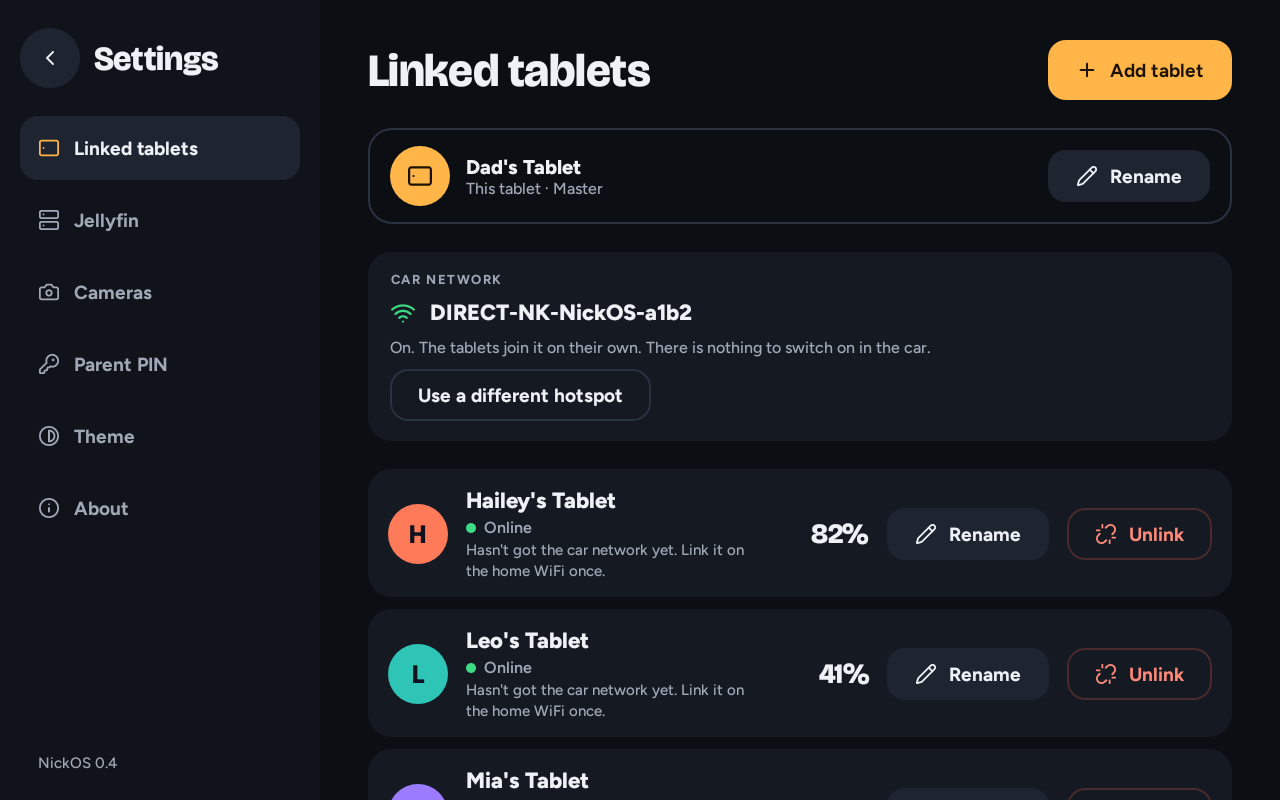
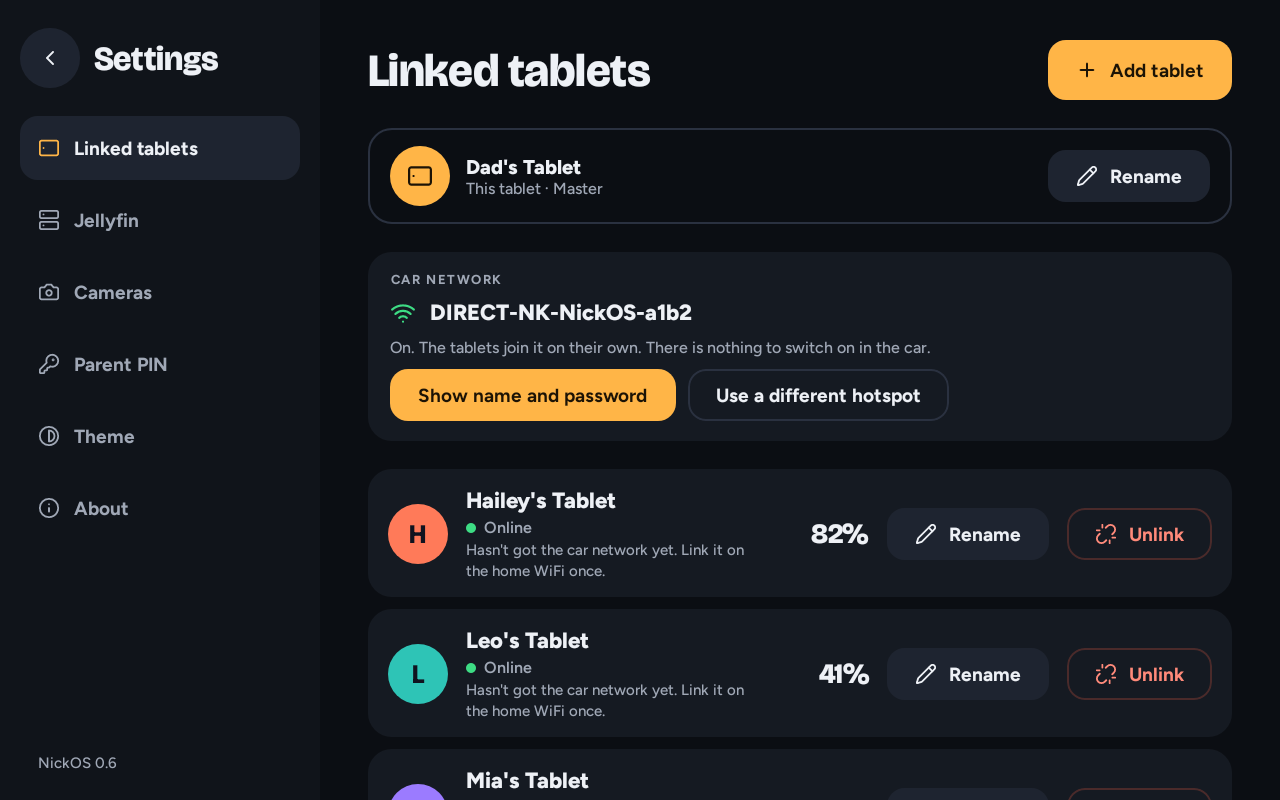
show the car network name, password and QR on the parent tablet

Changed region(s): [[0.2812, 0.4375, 0.5312, 0.5312], [0.5625, 0.4688, 0.7188, 0.5312]]

diff --git a/app/src/main/java/com/nbaltas/nickos/ui/master/Settings.kt b/app/src/main/java/com/nbaltas/nickos/ui/master/Settings.kt
@@ -28,6 +28,10 @@ import androidx.compose.foundation.shape.RoundedCornerShape
 import androidx.compose.foundation.verticalScroll
 import androidx.compose.material3.Icon
 import androidx.compose.material3.Text
+import androidx.compose.foundation.Image
+import androidx.compose.foundation.text.selection.SelectionContainer
+import androidx.compose.ui.graphics.FilterQuality
+import androidx.compose.ui.graphics.asImageBitmap
 import androidx.compose.runtime.Composable
 import androidx.compose.runtime.collectAsState
 import androidx.compose.runtime.getValue
@@ -317,6 +321,8 @@ private fun CarNetCard() {
     val manual = hotspot?.takeIf { !it.direct }
     val copy = carNetCopy(state, manual, Build.VERSION.SDK_INT)
     var reveal by rememberSaveable { mutableStateOf(false) }
+    // Not saved: the secret is hidden again whenever this card leaves the screen.
+    var showSecret by remember { mutableStateOf(carNetStartRevealed) }
     var name by rememberSaveable(manual?.ssid) { mutableStateOf(manual?.ssid ?: "") }
     var pass by rememberSaveable(manual?.pass) { mutableStateOf(manual?.pass ?: "") }
     val ask = rememberLauncherForActivityResult(ActivityResultContracts.RequestMultiplePermissions()) { app.master.carNet.recheck() }
@@ -340,10 +346,16 @@ private fun CarNetCard() {
         Row(verticalAlignment = Alignment.CenterVertically, horizontalArrangement = Arrangement.spacedBy(14.dp)) {
             Icon(if (up) Lucide.Wifi else Lucide.WifiOff, null, tint = if (up) C.online else C.muted, modifier = Modifier.size(26.dp))
             Text(copy.title, style = body(22.sp, 800), color = C.text, maxLines = 2, modifier = Modifier.weight(1f))
+            if (showSecret && state is CarNetState.On) NickButton(CARNET_HIDE, { showSecret = false }, Modifier.height(52.dp))
+        }
+        (state as? CarNetState.On)?.let { on ->
+            // The password: this tablet's own record of it, never logged and never part of the state's toString.
+            if (showSecret) CarNetSecret(on.ssid, on.pass ?: hotspot?.takeIf { it.direct && it.ssid == on.ssid }?.pass ?: app.store.carNetPass())
         }
         copy.line?.let { Muted(it, 16) }
-        if (copy.primary != null || copy.ghost != null) Row(horizontalArrangement = Arrangement.spacedBy(12.dp)) {
+        if (copy.primary != null || copy.ghost != null || (up && !showSecret)) Row(horizontalArrangement = Arrangement.spacedBy(12.dp)) {
             copy.primary?.let { b -> NickButton(b.label, { act(b.action) }, Modifier.height(52.dp), BtnStyle.PRIMARY) }
+            if (up && !showSecret) NickButton(CARNET_SHOW, { showSecret = true }, Modifier.height(52.dp), BtnStyle.PRIMARY)
             copy.ghost?.let { b -> NickButton(b.label, { act(b.action) }, Modifier.height(52.dp), BtnStyle.GHOST) }
         }
         if (copy.fields || reveal) Column(verticalArrangement = Arrangement.spacedBy(12.dp)) {
@@ -353,6 +365,28 @@ private fun CarNetCard() {
                 app.store.setHotspot(Hotspot(name.trim(), pass, direct = false)); reveal = false
             }, Modifier.height(52.dp), BtnStyle.PRIMARY, enabled = hotspotFieldsOk(name.trim(), pass))
             Muted(HOTSPOT_SAVE_NOTE, 15)
+        }
+    }
+}
+
+/** Test hook: the car network card opens with the name and password already shown. */
+internal var carNetStartRevealed = false
+
+@Composable
+private fun CarNetSecret(ssid: String, pass: String) {
+    val qr = remember(ssid, pass) { wifiQrBitmap(wifiQrPayload(ssid, pass), 500) }
+    Row(horizontalArrangement = Arrangement.spacedBy(24.dp), verticalAlignment = Alignment.CenterVertically) {
+        Column(Modifier.weight(1f), verticalArrangement = Arrangement.spacedBy(8.dp)) {
+            SelectionContainer {
+                Column(verticalArrangement = Arrangement.spacedBy(8.dp)) {
+                    Column { FieldLabel("Network name"); Text(ssid, style = body(28.sp, 800), color = C.text) }
+                    Column { FieldLabel("Password"); Text(pass, style = body(28.sp, 800), color = C.text) }
+                }
+            }
+            Muted(CARNET_SHARE_HELP, 15)
+        }
+        Box(Modifier.size(170.dp).clip(RoundedCornerShape(16.dp)).background(Color.White).padding(10.dp), contentAlignment = Alignment.Center) {
+            Image(qr.asImageBitmap(), "Car network QR code", Modifier.fillMaxSize(), filterQuality = FilterQuality.None)
         }
     }
 }

diff --git a/app/src/test/java/com/nbaltas/nickos/CarNetShareTest.kt b/app/src/test/java/com/nbaltas/nickos/CarNetShareTest.kt
@@ -1,0 +1,70 @@
+package com.nbaltas.nickos
+
+import androidx.compose.foundation.background
+import androidx.compose.foundation.layout.Box
+import androidx.compose.foundation.layout.fillMaxSize
+import androidx.compose.ui.Modifier
+import androidx.compose.ui.test.assertIsDisplayed
+import androidx.compose.ui.test.junit4.createComposeRule
+import androidx.compose.ui.test.onNodeWithText
+import androidx.compose.ui.test.performClick
+import androidx.compose.ui.test.performScrollTo
+import androidx.test.core.app.ApplicationProvider
+import com.nbaltas.nickos.master.CarNetState
+import com.nbaltas.nickos.ui.master.CARNET_HIDE
+import com.nbaltas.nickos.ui.master.CARNET_SHARE_HELP
+import com.nbaltas.nickos.ui.master.CARNET_SHOW
+import com.nbaltas.nickos.ui.master.SettingsScreen
+import com.nbaltas.nickos.ui.master.wifiQrPayload
+import com.nbaltas.nickos.ui.theme.C
+import com.nbaltas.nickos.ui.theme.NickTheme
+import kotlinx.coroutines.flow.MutableStateFlow
+import org.junit.Assert.assertEquals
+import org.junit.Assert.assertFalse
+import org.junit.Assert.assertTrue
+import org.junit.Rule
+import org.junit.Test
+import org.junit.runner.RunWith
+import org.robolectric.RobolectricTestRunner
+import org.robolectric.annotation.Config
+import org.robolectric.annotation.GraphicsMode
+
+@RunWith(RobolectricTestRunner::class)
+@GraphicsMode(GraphicsMode.Mode.NATIVE)
+@Config(sdk = [34], qualifiers = "w1024dp-h768dp-land-mdpi")
+class CarNetShareTest {
+    @get:Rule val rule = createComposeRule()
+    private val app get() = ApplicationProvider.getApplicationContext<App>()
+
+    @Test fun payloadIsTheStandardWifiString() {
+        assertEquals("WIFI:T:WPA;S:DIRECT-NK-NickOS-a1b2;P:zz9plural;;", wifiQrPayload("DIRECT-NK-NickOS-a1b2", "zz9plural"))
+    }
+
+    @Test fun payloadEscapesTheSpecialCharacters() {
+        assertEquals("""WIFI:T:WPA;S:a\;b\,c\:d\"e\\f;P:p\;\,\:\"\\q;;""", wifiQrPayload("""a;b,c:d"e\f""", """p;,:"\q"""))
+    }
+
+    @Test fun hexOnlyValuesAreQuoted() {
+        assertEquals("""WIFI:T:WPA;S:"abcdef12";P:"0123456789abcdef";;""", wifiQrPayload("abcdef12", "0123456789abcdef"))
+    }
+
+    @Test fun nameAndPasswordAreHiddenUntilAskedFor() {
+        val pass = app.store.carNetPass()
+        @Suppress("UNCHECKED_CAST")
+        (app.master.carNet.javaClass.getDeclaredField("_state").apply { isAccessible = true }.get(app.master.carNet) as MutableStateFlow<Any>)
+            .value = CarNetState.On("DIRECT-NK-NickOS-a1b2", "192.168.49.1")
+        rule.setContent { NickTheme { Box(Modifier.fillMaxSize().background(C.bg)) { SettingsScreen(0, {}, {}, {}) } } }
+        rule.onNodeWithText(CARNET_SHOW).performScrollTo().assertIsDisplayed()
+        assertEquals(0, rule.onAllNodesWithTextCount(pass))
+        assertEquals(0, rule.onAllNodesWithTextCount(CARNET_SHARE_HELP))
+        rule.onNodeWithText(CARNET_SHOW).performClick()
+        rule.onNodeWithText(pass).performScrollTo().assertIsDisplayed()
+        rule.onNodeWithText(CARNET_HIDE).performScrollTo().performClick()
+        assertEquals(0, rule.onAllNodesWithTextCount(pass))
+        assertTrue(rule.onAllNodesWithTextCount(CARNET_SHOW) == 1)
+        assertFalse(CarNetState.On("x", null, "secretpass").toString().contains("secretpass"))
+    }
+
+    private fun androidx.compose.ui.test.junit4.ComposeContentTestRule.onAllNodesWithTextCount(t: String) =
+        onAllNodes(androidx.compose.ui.test.hasText(t)).fetchSemanticsNodes().size
+}

diff --git a/app/src/main/java/com/nbaltas/nickos/ui/master/CarNetShare.kt b/app/src/main/java/com/nbaltas/nickos/ui/master/CarNetShare.kt
@@ -1,0 +1,34 @@
+package com.nbaltas.nickos.ui.master
+
+import android.graphics.Bitmap
+import com.google.zxing.BarcodeFormat
+import com.google.zxing.EncodeHintType
+import com.google.zxing.qrcode.QRCodeWriter
+import com.google.zxing.qrcode.decoder.ErrorCorrectionLevel
+
+/** Words on the car network card's "show name and password" reveal. */
+const val CARNET_SHOW = "Show name and password"
+const val CARNET_HIDE = "Hide"
+const val CARNET_SHARE_HELP = "Use these to join a camera or another device to the car network. In the Tapo app, pick this network when it asks for WiFi."
+
+/**
+ * The standard Wi-Fi QR payload a phone camera understands: `WIFI:T:WPA;S:<name>;P:<password>;;`.
+ * The characters `\ ; , : "` are escaped with a backslash. A value made only of hex digits would be read as raw
+ * hex, so (as the format says) it is wrapped in double quotes. The result holds the password: never log it.
+ */
+fun wifiQrPayload(ssid: String, pass: String): String = "WIFI:T:WPA;S:${wifiField(ssid)};P:${wifiField(pass)};;"
+
+private fun wifiField(v: String): String {
+    val esc = buildString { v.forEach { c -> if (c in "\\;,:\"") append('\\'); append(c) } }
+    val hex = v.isNotEmpty() && v.all { it in '0'..'9' || it in 'a'..'f' || it in 'A'..'F' }
+    return if (hex) "\"$esc\"" else esc
+}
+
+internal fun wifiQrBitmap(text: String, size: Int): Bitmap {
+    val m = QRCodeWriter().encode(
+        text, BarcodeFormat.QR_CODE, size, size,
+        mapOf(EncodeHintType.MARGIN to 0, EncodeHintType.ERROR_CORRECTION to ErrorCorrectionLevel.M, EncodeHintType.CHARACTER_SET to "UTF-8"),
+    )
+    val px = IntArray(size * size) { i -> if (m.get(i % size, i / size)) 0xFF000000.toInt() else 0xFFFFFFFF.toInt() }
+    return Bitmap.createBitmap(px, size, size, Bitmap.Config.ARGB_8888)
+}

diff --git a/app/src/test/java/com/nbaltas/nickos/DesignScreensTest.kt b/app/src/test/java/com/nbaltas/nickos/DesignScreensTest.kt
@@ -800,5 +800,19 @@ class DesignScreensTest {
     @Test fun camerasAddNotFound960() = camerasAddNotFound()
     @Config(qualifiers = "w1024dp-h768dp-land-mdpi")
     @Test fun camerasAddNotFound1024() = camerasAddNotFound()
+
+    private fun carNetRevealed() {
+        com.nbaltas.nickos.ui.master.carNetStartRevealed = true
+        try {
+            shot("Settings-Tablets-CarNet-Revealed-${sizeTag()}") { SettingsScreen(0, {}, {}, {}) }
+        } finally {
+            com.nbaltas.nickos.ui.master.carNetStartRevealed = false
+        }
+    }
+
+    @Config(qualifiers = "w960dp-h600dp-land-mdpi")
+    @Test fun carNetRevealed960() = carNetRevealed()
+    @Config(qualifiers = "w1024dp-h768dp-land-mdpi")
+    @Test fun carNetRevealed1024() = carNetRevealed()
 }
 
